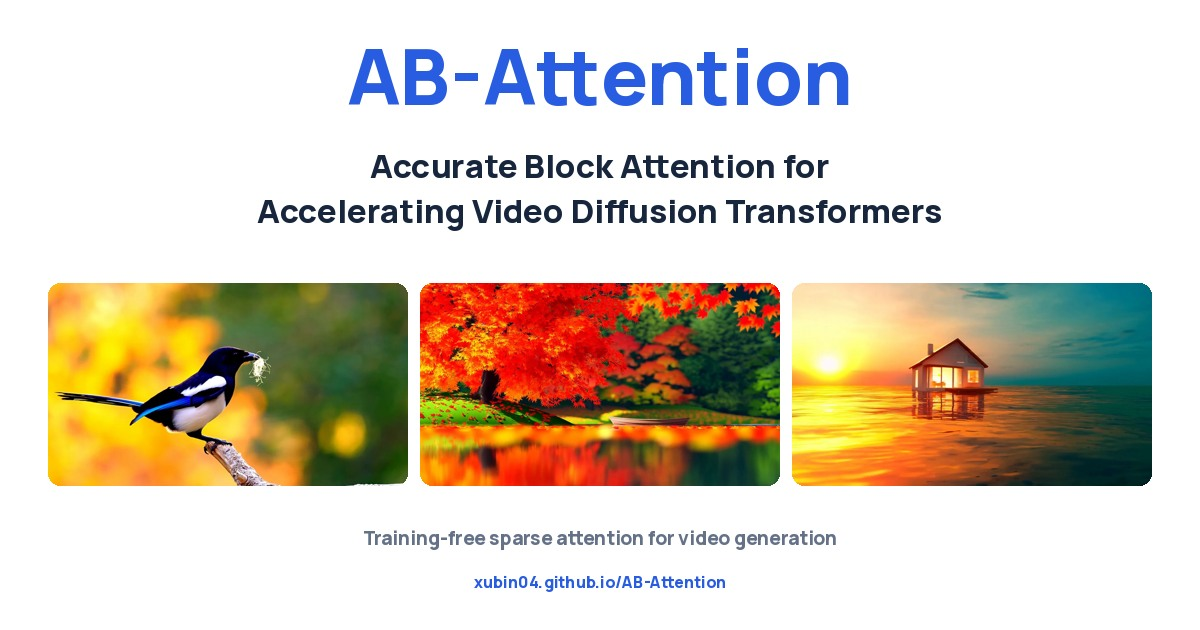
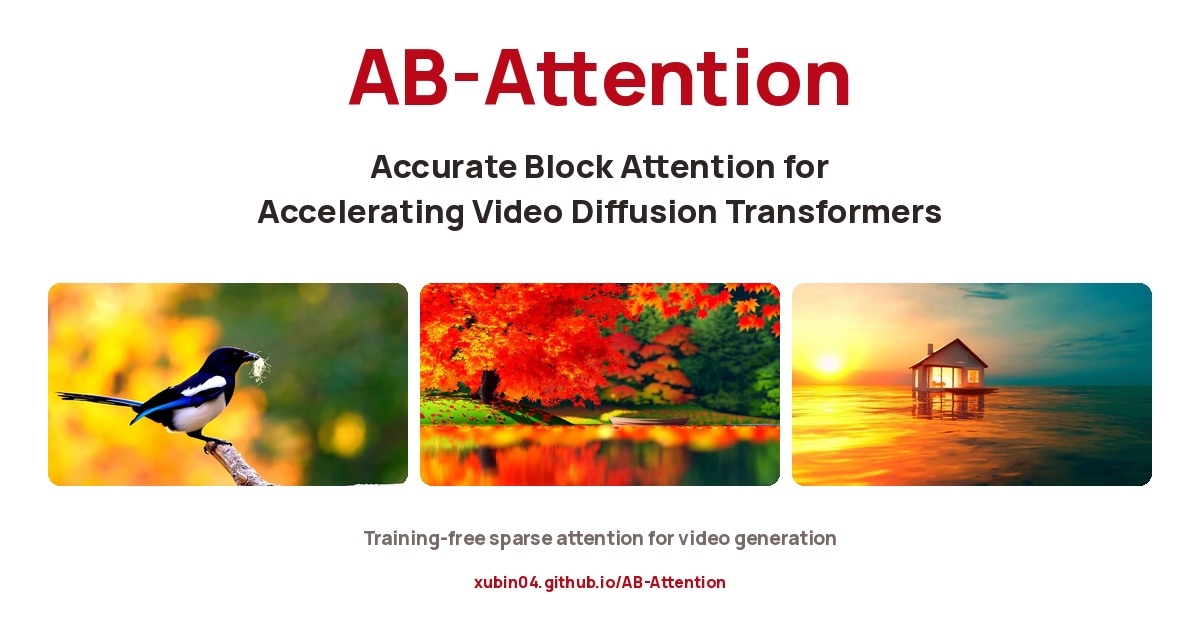
Match project page to report palette and link authors and affiliations

diff --git a/docs/static/css/index.css b/docs/static/css/index.css
@@ -1,17 +1,17 @@
 /* Adapted from Academic Project Page Template, CC BY-SA 4.0. */
 @font-face { font-family: Inter; font-style: normal; font-weight: 400 700; font-display: swap; src: url('../fonts/inter-latin.woff2') format('woff2'); }
 @font-face { font-family: Manrope; font-style: normal; font-weight: 600 800; font-display: swap; src: url('../fonts/manrope-latin.woff2') format('woff2'); }
-:root { --primary: #285ce0; --ink: #18263d; --muted: #647187; --line: #e3e8ef; --tint: #f7f9fc; }
+:root { --primary: #bb0819; --primary-hover: #941100; --ink: #2d2424; --muted: #786a68; --line: #e9dfdc; --tint: #fcf8f6; --accent-soft: #f9e8e2; --accent-line: #deb6ab; }
 html { scroll-behavior: smooth; scroll-padding-top: 28px; }
 body { color: var(--ink); font-family: Inter, -apple-system, BlinkMacSystemFont, 'Segoe UI', sans-serif; line-height: 1.7; -webkit-font-smoothing: antialiased; }
 [hidden] { display: none !important; }
 a { color: var(--primary); transition: color .16s; }
-a:hover { color: #1744b0; }
+a:hover { color: var(--primary-hover); }
 button, input { font: inherit; }
 button { cursor: pointer; }
-a:focus-visible, button:focus-visible, input:focus-visible, [tabindex]:focus-visible { outline: 3px solid #8dadf5; outline-offset: 4px; }
+a:focus-visible, button:focus-visible, input:focus-visible, [tabindex]:focus-visible { outline: 3px solid #d97757; outline-offset: 4px; }
 sup { font-size: .62em; margin-left: 3px; }
-::selection { background: #dce7ff; color: var(--ink); }
+::selection { background: #f2d1c5; color: var(--ink); }
 .skip-link { position: absolute; top: -60px; left: 16px; z-index: 10; background: white; padding: 10px 16px; }
 .skip-link:focus { top: 12px; }
 .section > .container.page-width { max-width: 1160px; }
@@ -31,35 +31,38 @@ sup { font-size: .62em; margin-left: 3px; }
 .author-row { display: flex; flex-wrap: wrap; justify-content: center; column-gap: 24px; row-gap: 3px; }
 .author-row + .author-row { margin-top: 3px; }
 .author-block { white-space: nowrap; font-weight: 500; color: var(--ink); }
-.author-block a { color: var(--ink); text-decoration: underline; text-decoration-color: transparent; text-underline-offset: 4px; }
-.author-block a:hover { color: var(--primary); text-decoration-color: #b7caf8; }
+.author-block a { color: var(--ink); text-decoration: underline; text-decoration-color: var(--accent-line); text-decoration-thickness: 1px; text-underline-offset: 4px; }
+.author-block a:hover { color: var(--primary); text-decoration-color: currentColor; }
 .author-block sup { color: var(--primary); font-weight: 500; }
-.publication-affiliations { margin: 0 auto; color: #657187; font-size: 12px; line-height: 1.9; }
+.publication-affiliations { margin: 0 auto; color: var(--muted); font-size: 12px; line-height: 1.9; }
 .affiliation-row { display: flex; flex-wrap: wrap; justify-content: center; gap: 2px 18px; }
 .publication-affiliations span { display: inline-block; }
+.publication-affiliations a { color: inherit; text-decoration: underline; text-decoration-color: var(--line); text-underline-offset: 3px; }
+.publication-affiliations a:hover { color: var(--primary); text-decoration-color: var(--accent-line); }
 .publication-affiliations sup { color: var(--primary); font-weight: 600; margin-right: 4px; }
 .corresponding { margin: 8px 0 23px; font-size: 11px; color: var(--muted); }
 .publication-links { display: flex; gap: 10px; justify-content: center; flex-wrap: wrap; }
 .button { border-radius: 7px; font-weight: 500; box-shadow: none; transition: background .16s, border-color .16s, color .16s, transform .16s; }
+.button:focus:not(:active) { box-shadow: none; }
 .publication-links .button { padding: 0 21px; height: 44px; font-size: 13px; border: 1px solid var(--line); background: white; color: var(--ink); }
-.publication-links .button:hover { background: var(--tint); border-color: #bac8de; transform: translateY(-1px); }
-.publication-links .paper-button { background: var(--primary); border-color: var(--primary); color: white; box-shadow: 0 3px 9px #285ce018; }
-.publication-links .paper-button:hover { background: #1c4cc7; border-color: #1c4cc7; }
+.publication-links .button:hover { background: var(--tint); border-color: var(--accent-line); transform: translateY(-1px); }
+.publication-links .paper-button { background: var(--primary); border-color: var(--primary); color: white; box-shadow: 0 3px 9px #bb081918; }
+.publication-links .paper-button:hover { background: var(--primary-hover); border-color: var(--primary-hover); }
 .publication-links .code-button { background: var(--ink); border-color: var(--ink); color: white; }
-.publication-links .code-button:hover { background: #2d405d; border-color: #2d405d; }
+.publication-links .code-button:hover { background: #493c3b; border-color: #493c3b; }
 .publication-links svg { width: 17px; height: 17px; margin-right: 8px; fill: none; stroke: currentColor; stroke-width: 1.7; stroke-linejoin: round; stroke-linecap: round; }
 .publication-links svg.github-icon { fill: currentColor; stroke: none; }
 .section-nav { display: flex; justify-content: center; flex-wrap: wrap; gap: 8px 26px; font-size: 11px; margin: 28px auto 0; }
 .section-nav a { color: var(--muted); padding-block: 4px; border-bottom: 1px solid transparent; }
-.section-nav a:hover { color: var(--primary); border-color: #bfd0f7; }
+.section-nav a:hover { color: var(--primary); border-color: var(--accent-line); }
 .section { padding: 76px 24px; }
-.section-tinted { background: var(--tint); border-block: 1px solid #ecf0f6; }
+.section-tinted { background: var(--tint); border-block: 1px solid var(--line); }
 .teaser.section { padding-top: 28px; padding-bottom: 48px; }
 .teaser-grid { display: grid; grid-template-columns: repeat(3, minmax(0, 1fr)); gap: 14px; }
-.teaser-grid figure { position: relative; overflow: hidden; border-radius: 12px; box-shadow: 0 5px 18px #18263d0a; }
-video { display: block; width: 100%; aspect-ratio: 16 / 9; background: #e9edf2; border-radius: 8px; object-fit: contain; }
+.teaser-grid figure { position: relative; overflow: hidden; border-radius: 12px; box-shadow: 0 5px 18px #2d24240a; }
+video { display: block; width: 100%; aspect-ratio: 16 / 9; background: #f0e9e6; border-radius: 8px; object-fit: contain; }
 .teaser-grid video { border-radius: 0; }
-.teaser-grid figcaption { position: absolute; bottom: 0; left: 0; right: 0; pointer-events: none; padding: 25px 17px 12px; color: white; background: linear-gradient(transparent, #07132485); font-size: 11px; font-weight: 500; letter-spacing: .01em; }
+.teaser-grid figcaption { position: absolute; bottom: 0; left: 0; right: 0; pointer-events: none; padding: 25px 17px 12px; color: white; background: linear-gradient(transparent, #21131285); font-size: 11px; font-weight: 500; letter-spacing: .01em; }
 .gallery-caption { display: flex; justify-content: center; align-items: center; flex-wrap: wrap; gap: 4px 14px; margin-top: 13px; font-size: 11px; color: var(--muted); }
 .text-button { border: 0; background: none; color: var(--primary); padding: 3px 5px; font-size: inherit; }
 .text-button:hover { text-decoration: underline; }
@@ -77,7 +80,7 @@ video { display: block; width: 100%; aspect-ratio: 16 / 9; background: #e9edf2; 
 .section-kicker { text-align: center; text-transform: uppercase; letter-spacing: .16em; color: var(--primary); font-size: 10px; font-weight: 600; margin-bottom: 10px; }
 .section-title { font-family: Manrope, Inter, sans-serif; text-align: center; color: var(--ink); letter-spacing: -.035em; font-weight: 800; font-size: 31px !important; margin-bottom: 14px !important; }
 .section-intro { max-width: 760px; margin: 0 auto 34px; color: var(--muted); text-align: center; font-size: 14px; }
-.abstract-copy { font-size: 15px; line-height: 1.9; color: #4a586d; margin-top: 30px; }
+.abstract-copy { font-size: 15px; line-height: 1.9; color: #5f504e; margin-top: 30px; }
 .abstract-copy strong { color: var(--ink); }
 .method-figure { margin: 36px 0 30px; }
 .method-figure img { display: block; width: 100%; height: auto; }
@@ -90,14 +93,14 @@ video { display: block; width: 100%; aspect-ratio: 16 / 9; background: #e9edf2; 
 .sample-selector { display: flex; flex-wrap: wrap; justify-content: center; gap: 7px; }
 .sample-selector button { border: 1px solid var(--line); border-radius: 6px; background: white; color: var(--muted); padding: 8px 18px; font-size: 12px; transition: background .16s, border-color .16s; }
 .sample-selector button[aria-pressed="true"] { color: white; border-color: var(--ink); background: var(--ink); }
-.sample-selector button:hover { border-color: #9aaecb; }
+.sample-selector button:hover { border-color: var(--accent-line); }
 .prompt-text { text-align: center; max-width: 880px; margin: 20px auto 28px; font-size: 13px; color: var(--muted); min-height: 46px; display: flex; align-items: center; justify-content: center; }
 .comparison-grid { display: grid; grid-template-columns: repeat(4, minmax(0, 1fr)); gap: 16px; }
 .comparison-grid figure { min-width: 0; }
 .comparison-grid figcaption { min-height: 34px; font-size: 13px; font-weight: 600; display: flex; align-items: center; justify-content: space-between; padding: 0 2px 10px; }
 .comparison-grid figcaption span { color: var(--muted); font-size: 9px; font-weight: 500; }
 .comparison-grid .ours figcaption { color: var(--primary); }
-.comparison-grid .ours figcaption span { background: #e5edff; padding: 2px 7px; border-radius: 3px; color: var(--primary); }
+.comparison-grid .ours figcaption span { background: var(--accent-soft); padding: 2px 7px; border-radius: 3px; color: var(--primary); }
 .comparison-grid .ours video { outline: 2px solid var(--primary); outline-offset: 3px; }
 .video-metric { text-align: center; font-size: 11px; color: var(--muted); margin: 13px 0 0; font-variant-numeric: tabular-nums; }
 .ours .video-metric { color: var(--primary); font-weight: 600; }
@@ -122,10 +125,10 @@ video { display: block; width: 100%; aspect-ratio: 16 / 9; background: #e9edf2; 
 .citation-heading .title { font-family: Manrope, Inter, sans-serif; margin: 0; color: var(--ink); letter-spacing: -.035em; }
 .citation-heading .button { height: 34px; font-size: 11px; background: white; border-color: var(--line); }
 pre { background: white; border: 1px solid var(--line); border-radius: 8px; padding: 26px; overflow: auto; font-size: 12px; line-height: 1.9; }
-pre code { color: #465974; font-family: 'SFMono-Regular', Consolas, 'Liberation Mono', monospace; }
+pre code { color: #5f504e; font-family: 'SFMono-Regular', Consolas, 'Liberation Mono', monospace; }
 .copy-status { min-height: 20px; font-size: 12px; color: var(--muted); margin-top: 7px; }
 .footer { padding: 32px 24px; background: white; font-size: 10px; color: var(--muted); line-height: 1.9; }
-.footer a { color: #526b90; }
+.footer a { color: var(--primary-hover); }
 @media (max-width: 900px) {
   .comparison-grid { grid-template-columns: repeat(2, minmax(0, 1fr)); gap: 24px 18px; }
   .method-grid { gap: 22px; }

diff --git a/docs/index.html b/docs/index.html
@@ -36,33 +36,33 @@
           </h1>
           <div class="publication-authors">
             <div class="author-row">
-            <span class="author-block"><a href="https://openreview.net/profile?id=~Bin_Xu8">Bin Xu</a><sup>1,2</sup></span>
-            <span class="author-block"><a href="https://openreview.net/profile?id=~Mo_Zhang1">Mo Zhang</a><sup>3</sup></span>
-            <span class="author-block"><a href="https://openreview.net/profile?id=~Zhengfeiyang_Zhang2">Zhengfeiyang Zhang</a><sup>1,4</sup></span>
+            <span class="author-block"><a href="https://xubin04.github.io/" target="_blank" rel="noopener noreferrer">Bin Xu</a><sup>1,2</sup></span>
+            <span class="author-block"><a href="https://openreview.net/profile?id=~Mo_Zhang1" target="_blank" rel="noopener noreferrer">Mo Zhang</a><sup>3</sup></span>
+            <span class="author-block"><a href="https://zhangzfy.github.io/" target="_blank" rel="noopener noreferrer">Zhengfeiyang Zhang</a><sup>1,4</sup></span>
             <span class="author-block">Xinfeng Yang<sup>6</sup></span>
-            <span class="author-block"><a href="https://openreview.net/profile?id=~Yixing_Ma1">Yixing Ma</a><sup>1,5</sup></span>
+            <span class="author-block"><a href="https://openreview.net/profile?id=~Yixing_Ma1" target="_blank" rel="noopener noreferrer">Yixing Ma</a><sup>1,5</sup></span>
             </div>
             <div class="author-row">
-            <span class="author-block"><a href="https://openreview.net/profile?id=~Wei_Wang50">Wei Wang</a><sup>7</sup></span>
-            <span class="author-block"><a href="https://openreview.net/profile?id=~HeXin_Wang3">HeXin Wang</a><sup>1</sup></span>
-            <span class="author-block"><a href="https://openreview.net/profile?id=~Pengfei_Zhou1">Pengfei Zhou</a><sup>1,8,†</sup></span>
-            <span class="author-block"><a href="https://openreview.net/profile?id=~Wangbo_Zhao1">Wangbo Zhao</a><sup>7,†</sup></span>
+            <span class="author-block"><a href="https://cse.hkust.edu.hk/~weiwa/" target="_blank" rel="noopener noreferrer">Wei Wang</a><sup>7</sup></span>
+            <span class="author-block"><a href="https://openreview.net/profile?id=~HeXin_Wang3" target="_blank" rel="noopener noreferrer">HeXin Wang</a><sup>1</sup></span>
+            <span class="author-block"><a href="https://openreview.net/profile?id=~Pengfei_Zhou1" target="_blank" rel="noopener noreferrer">Pengfei Zhou</a><sup>1,8,†</sup></span>
+            <span class="author-block"><a href="https://wangbo-zhao.github.io/" target="_blank" rel="noopener noreferrer">Wangbo Zhao</a><sup>7,†</sup></span>
             </div>
           </div>
           <div class="publication-affiliations">
             <div class="affiliation-row">
-            <span><sup>1</sup>InfRec</span>
-            <span><sup>2</sup>The Chinese University of Hong Kong, Shenzhen</span>
-            <span><sup>3</sup>Shandong University</span>
+            <span><sup>1</sup><a href="https://www.cardinal-agi.com/" target="_blank" rel="noopener noreferrer">InfRec</a></span>
+            <span><sup>2</sup><a href="https://www.cuhk.edu.cn/en" target="_blank" rel="noopener noreferrer">The Chinese University of Hong Kong, Shenzhen</a></span>
+            <span><sup>3</sup><a href="https://www.en.sdu.edu.cn/" target="_blank" rel="noopener noreferrer">Shandong University</a></span>
             </div>
             <div class="affiliation-row">
-            <span><sup>4</sup>The University of Tokyo</span>
-            <span><sup>5</sup>University of California, Berkeley</span>
-            <span><sup>6</sup>Fudan University</span>
+            <span><sup>4</sup><a href="https://www.u-tokyo.ac.jp/en/" target="_blank" rel="noopener noreferrer">The University of Tokyo</a></span>
+            <span><sup>5</sup><a href="https://www.berkeley.edu/" target="_blank" rel="noopener noreferrer">University of California, Berkeley</a></span>
+            <span><sup>6</sup><a href="https://www.fudan.edu.cn/en/" target="_blank" rel="noopener noreferrer">Fudan University</a></span>
             </div>
             <div class="affiliation-row">
-            <span><sup>7</sup>The Hong Kong University of Science and Technology</span>
-            <span><sup>8</sup>National University of Singapore</span>
+            <span><sup>7</sup><a href="https://hkust.edu.hk/" target="_blank" rel="noopener noreferrer">The Hong Kong University of Science and Technology</a></span>
+            <span><sup>8</sup><a href="https://nus.edu.sg/" target="_blank" rel="noopener noreferrer">National University of Singapore</a></span>
             </div>
           </div>
           <p class="corresponding"><sup>†</sup> Corresponding authors</p>

diff --git a/docs/README.md b/docs/README.md
@@ -19,6 +19,12 @@ Edit `index.html` for content, `static/css/index.css` for layout, and
   start for web playback without re-encoding the video. Clips were generated on GH200;
   the paper's reported end-to-end speedups were measured on H20.
 - Add the arXiv link and update BibTeX when an identifier is available.
+- The page accent matches the report's `reportaccent` (`#BB0819`), with
+  `cayenne` (`#941100`) for hover states. Keep the favicon and social preview
+  in the same palette.
+- Author links use verified personal homepages where available, otherwise
+  the supplied OpenReview profiles. Affiliations link to their official
+  websites; InfRec links to its Cardinal AI site.
 
 ## Attribution
 
